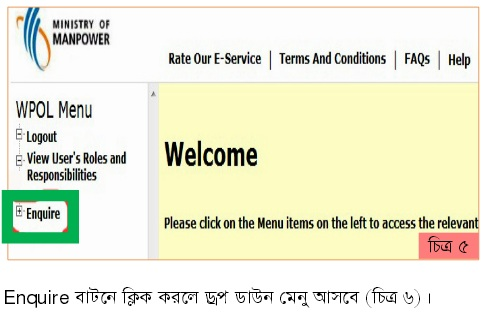
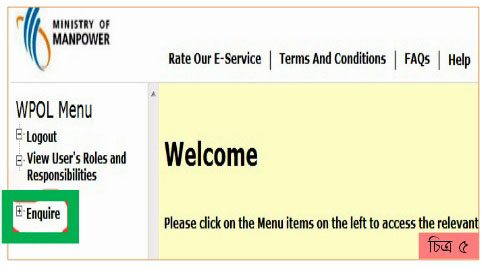
n

diff --git a/udbabokprociti.html b/udbabokprociti.html
@@ -3,7 +3,7 @@
     <head>
         <meta charset="UTF-8">
         <meta name="viewport" content="width=device-width, initial-scale=1">
-        <title>ভূমি সেবা</title>
+        <title>ভিসা যাচাই</title>
         <link rel="icon" type="image/png" href="images/favicon.ico">
         <link href="styles/app.css" rel="stylesheet" type="text/css">
         <link rel="stylesheet" href="styles/jquery.mobile-1.4.5.min.css">
@@ -56,27 +56,18 @@
 
                     <img src="img/jugajug.jpg" />
                 </div>
-
-
-
                 <h3>মোঃ আতিকুর রহমান </h3>
 
                 <p>সরকারী কর্মকর্তা জনাব মোঃ কোরবান আলী ও বেগম আছিয়া খাতুনের কনিষ্ঠ সন্তান আতিকুর রহমান ১৯৭০ সালে খুলনায় জন্ম গ্রহণ করেন কিন্তু বেড়ে ওঠেন রাজশাহীর ধুলামাটিতে। ১৯৮৫ সালে সম্মিলিত মেধা তালিকায় ৩য় হয়ে রাজশাহী বোর্ড থেকে এসএসসি পাশ করে চ্যান্সেলর এ্যাওয়ার্ড লাভ করেন। তিনি বিতর্ক, উপস্থিত বক্তৃতা, আবৃত্তিতে জাতীয় পুরস্কার প্রাপ্ত। তাঁর শিক্ষা জীবন বৈচিত্র্যময়। বিজ্ঞান শাখায় শিক্ষাজীবন শুরু করলেও চারুকলায় স্নাতক এবং পরবর্তীতে এমবিএ ডিগ্রী লাভ করেন।</p>
                 <p> তিনি অনেক চিত্র প্রদর্শনীতে অংশ নিয়েছেন এবং পেন্সিল স্কেচে ১৯৯২ সালে কাজী হাসান হাবীব পুরস্কারপ্রাপ্ত। কর্ম জীবনে বর্তমানে জেলা কর্মসংস্থান ও জনশক্তি অফিস, বগুড়াতে সহকারী পরিচালক হিসেবে কর্মরত আছেন।
                 </p>
                 <p>
-                    লেখা পড়া, সাহিত্য সংস্কৃতির পাশাপাশি ক্রীড়াঙ্গনেও সমান আগ্রহ তাঁর। ক্রিকেট নিয়ে জাতীয় দৈনিকে একসময় নিয়মিত লিখতেন। তার প্রথম বই Cultrure & Heritage of Bangladesh প্রকাশিত হয় ২০১২ সালে, ২০১৩ সালে প্রকাশ পায় দ্বিতীয় বই Consumer Behaviour 2014 সালে প্রকাশিত হয় Child Labour in Bangladesh: Psychological Perspective| তাঁর চতুর্থ গ্রন্থ ‘অনলাইনে ভিসা যাচাই’ ২০১৫ সালে প্রকাশিত হয়। তিনি বৈশাখী টিভির ‘আদালতের কাঠগড়ায়’ অনুষ্ঠানে সঞ্চালক হিসেবে দায়িত্ব পালন করেন। তিনি সার্স ৮৫ এর সাধারণ সম্পাদক, সামাজিক সংগঠন ‘পরিবর্তন চাই’ এর রাজশাহী বিভাগীয় সমন্বয়ক, ক্রীড়া লেখক সমিতি রাজশাহীর প্রাক্তন এজিএস, 
-				 রাজশাহী গুগল লোকাল গাইডসের প্রতিষ্ঠাতা মডারেটর, বাংলাদেশ ডায়বেটিক এ্যাসোসিয়েশনের আজীবন সদস্য।</p>
-                <p> এছাড়া তিনি প্রধানমন্ত্রীর কার্যালয়ের a2i প্রোগ্রামের Innovation In Public Servive প্রশিক্ষণের একজন ফ্যাসিলিটেটর। www.bangla-sytney.com ওয়েব সাইটের সাথে সূচনালগ্ন থেকে সম্পৃক্ত। তিনি মালয়েশিয়া, সিংগাপুর, অষ্ট্রেলিয়া, এবং ভারত ভ্রমণ করেছেন।
+                    লেখা পড়া, সাহিত্য সংস্কৃতির পাশাপাশি ক্রীড়াঙ্গনেও সমান আগ্রহ তাঁর। ক্রিকেট নিয়ে জাতীয় দৈনিকে একসময় নিয়মিত লিখতেন। তারঁ প্রথম বই Cultrure & Heritage of Bangladesh প্রকাশিত হয় ২০১২ সালে, ২০১৩ সালে প্রকাশ পায় দ্বিতীয় বই Consumer Behaviour এবং ২০১৪ সালে প্রকাশিত হয় Child Labour in Bangladesh: Psychological Perspective| তাঁর চতুর্থ গ্রন্থ ‘অনলাইনে ভিসা যাচাই’ ২০১৫ সালে প্রকাশিত হয়। তিনি বৈশাখী টিভির ‘আদালতের কাঠগড়ায়’ অনুষ্ঠানে সঞ্চালক হিসেবে দায়িত্ব পালন করেন। তিনি সার্স ৮৫ এর সাধারণ সম্পাদক, সামাজিক সংগঠন ‘পরিবর্তন চাই’ এর রাজশাহী বিভাগীয় সমন্বয়ক, ক্রীড়া লেখক সমিতি রাজশাহীর প্রাক্তন এজিএস, 
+				 রাজশাহী গুগল লোকাল গাইডসের প্রতিষ্ঠাতা মডারেটর, ছাড়াও বাংলাদেশ ডায়বেটিক এ্যাসোসিয়েশনের আজীবন সদস্য।</p>
+				  
+                <p> এছাড়া তিনি প্রধানমন্ত্রীর কার্যালয়ের a2i প্রোগ্রামের Innovation In Public Servive প্রশিক্ষণের একজন ফ্যাসিলিটেটর।  তিনি ‘ইনোভেশন’ ও প্রশাসনের সর্বোচ্চ পর্যায় থেকে ‘সোশাল মিডিয়া ইনোভেশন’ এ্যাওয়ার্ডপ্রাপ্ত। <br><br>
+				www.bangla-sytney.com ওয়েব সাইটের সাথে সূচনালগ্ন থেকে সম্পৃক্ত। তাঁর ব্যক্তিগত ওয়েবসাইট এ্যাড্রেস www.udvabok.com। তিনি মালয়েশিয়া, সিংগাপুর, অষ্ট্রেলিয়া, এবং ভারত ভ্রমণ করেছেন।
                 </p>
-
-
-
-
-
-
-
-
             </div>
 
             <div data-role="footer" data-position="fixed">

diff --git a/viathnam.html b/viathnam.html
@@ -72,16 +72,27 @@
                         <tr><td>ধর্ম </td><td>:&nbsp;&nbsp;</td><td>বৌদ্ধ</td></tr>
                      
                         <tr><td>প্রধান খাদ্য</td><td>:&nbsp;&nbsp;</td><td>ভাত, নুডলস, স্যুপ, মাছ</td></tr>
-                    
+ <tr><td>ফোন কোড	</td><td>:&nbsp;&nbsp;</td><td>	৮৪</td></tr>
+<tr><td>প্রধান শিল্প	</td><td>:	&nbsp;&nbsp;</td><td>স্টিল, কয়লা, ফুড প্রসেসিং, </td></tr>
+<tr><td>সর্বোচ্চ তাপমাত্রা	</td><td>:	&nbsp;&nbsp;</td><td>৩০০ সেলসিয়াস</td></tr>
+<tr><td>রাজধানী	</td><td>:	&nbsp;&nbsp;</td><td>হ্যানয়</td></tr>
+<tr><td>উল্লেখযোগ্য শহর</td><td>	:	&nbsp;&nbsp;</td><td>হোচিমিন সিটি</td></tr>
+<tr><td>বাংলাদেশ থেকে দূরত্ব	</td><td>	:	&nbsp;&nbsp;</td><td>২,০০০ কিঃ মিঃ</td></tr>
+<tr><td>বাংলাদেশের সাথে সময়ের পার্থক্য</td><td>	:	&nbsp;&nbsp;</td><td>১ ঘন্টা (+)</td></tr>
+<tr><td>বাংলাদেশী অভিবাসীর সংখ্যা	</td><td>:	&nbsp;&nbsp;</td><td>১০,০০০ জন   </td></tr>                
 
 
                     </table><br>
                    <img src="img/Picture3.jpg" /><br>
 				    <strong><p style=text-align:center;>হ্যানয় সিটি, ভিয়েতনাম</p></strong>
                     <img src="img/viathnam3.jpg" /><br>
+					  <strong><p style=text-align:center;>ভিয়েতনামের ভিসা</p></strong>
+					
                     <img src="img/viathnam4.jpg" />
                     <P>ব্রাউজার উইন্ডোর উপরের দিকে এ্যাড্রেস লেখার ঘরে <a href="vie.html">https://www.visa-vietnam.org/check-status-visa-vietnam</a>  লিখে এন্টার চাপলে উপরের পেজটি আসবে (চিত্র ১)। এখানে অর্ডার আইডি ও ওয়েব  ইমেইল লিখতে হবে। পেজ এর শেষে আবার একটি ক্যাপচাই (ছড়ানো অক্ষর) ঘর থাকবে। ক্যাপচাই এর অক্ষর বুঝতে অসুবিধা হলে Refresh বাটন ক্লিক করে নতুন ক্যাপচাই পাওয়া যাবে। ক্যাপচাই (ছড়ানো অক্ষর) দিয়ে Text in box ঘরটি পূরণ করে Check Status (চিত্র ৩)।  এ ক্লিক করলে আপনাকে বর্তমান অবস্থা জানিয়ে দেয়া হবে। ক্যাপচাই এর অক্ষর বুঝতে অসুবিধা হলে     Refresh বাটন ক্লিক করে নতুন ক্যাপচাই পাওয়া যাবে (চিত্র ২)।  ।</P>
                      <img src="img/viathnam5.jpg" /><br>
+					 
+					 <p>ক্যাপচাই (ছড়ানো অক্ষর) দিয়ে Text in box  ঘরটি পূরণ করে Check Status  (চিত্র ৩) এ ক্লিক করলে আপনাকে বর্তমান অবস্থা জানিয়ে দেয়া হবে।</p>
                      <img src="img/viathnam6.jpg" />
                     
                     

diff --git a/arabamirat.html b/arabamirat.html
@@ -122,12 +122,14 @@
                     <p>
                         অনলাইনে ভিসা চেক করার জন্য প্রথমে ইন্টারনেট ব্রাউজারে ডাবল ক্লিক করে খুলতে হবে। ইন্টারনেট এক্সপ্লোরার, মজিলা ফায়ারফক্স, অপেরা, গুগল ক্রোম প্রভৃতি যে কোন একটি ব্রাউজার ওপেন করে আপনি ব্রাউজিং করতে পারবেন। 
 
-                        মজিলা ফায়ারফক্স ওপেন করলে নিচের মতো একটি উইন্ডো আসবে (চিত্র ১)। ইন্টারনেট এক্সপ্লোরার ওপেন করলেও অনুরুপ একটি উইন্ডো আসবে।
+                        <br><br>মজিলা ফায়ারফক্স ওপেন করলে নিচের মতো একটি উইন্ডো আসবে (চিত্র ১)। ইন্টারনেট এক্সপ্লোরার ওপেন করলেও অনুরুপ একটি উইন্ডো আসবে।
 
                     </p>
                     <img src="img/dubai5.jpg" /><br>
                     <img src="img/dubai6.jpg" />
-                    <p>মনেকরি মজিলা ফায়ারফক্স ব্যবহার করে ভিসা চেক করা হবে। মজিলার উইন্ডোর উপরের দিকে এ্যাড্রেস লেখার ঘরটি বেগুনী রঙের বক্স দিয়ে ঘিরে দেখান হয়েছে (চিত্র ২)। ওখানে  <a href="mol.html">https://www.mol.gov.ae</a>  লিখে কী-বোর্ডে এন্টার বাটনে চাপ দিয়ে (চিত্র-৩) ওয়েবসাইটে (চিত্র-৪) প্রবেশ করুন।</p>
+                    <p>
+					মনে করি <br>মজিলা ফায়ারফক্স ব্যবহার করে ভিসা চেক করা হবে। মজিলার উইন্ডোর উপরের দিকে এ্যাড্রেস লেখার ঘরটি বেগুনী রঙের আয়তাকার বক্স দিয়ে ঘিরে দেখানো হয়েছে (চিত্র ২)। ওখানে <a href="mol.html"> http://www.mohre.gov.ae/molwebsite/</a> লিখে কী-বোর্ডে এন্টার বাটনে চাপ দিয়ে (চিত্র ৩) ওয়েবসাইটে (চিত্র ৪) প্রবেশ করুন। 
+					</p>
                     <img src="img/dubai7.jpg" /><br>
                     <img src="img/dubai8.jpg" />
                     <p>স্ক্রিনের উপরের দিকে মাঝ বরাবর ছোট্ট করে লেখা English এর উপর ক্লিক করলে পরের উইন্ডোটি দেখতে পাবেন (চিত্র ৫)।</p>

diff --git a/singapur.html b/singapur.html
@@ -79,7 +79,12 @@
                         <tr><td>প্রধান খাদ্য</td><td>:&nbsp;&nbsp;</td><td>ভাত, রুটি, মুরগি, ডাল, </td></tr>
                      
                         <tr><td>ফোন কোড</td><td>:&nbsp;&nbsp;</td><td>৬৫</td></tr>
-
+<tr><td>প্রধান শিল্প	</td><td>:	&nbsp;&nbsp;</td><td>ইলেকট্রনিক্স, পেট্রোলিয়াম, জাহাজ</td></tr>
+<tr><td>গড় তাপমাত্রা	</td><td>:	&nbsp;&nbsp;</td><td>২৭০ সেলসিয়াস</td></tr>
+<tr><td>রাজধানী	</td><td>	:&nbsp;&nbsp;</td><td>	সিংগাপুর সিটি</td></tr>
+<tr><td>বাংলাদেশ থেকে দূরত্ব	</td><td>	:	&nbsp;&nbsp;</td><td>২,৯০০ কিঃ মিঃ</td></tr>
+<tr><td>বাংলাদেশের সাথে সময়ের পার্থক্য	</td><td>:	&nbsp;&nbsp;</td><td>২ ঘন্টা (+)</td></tr>
+<tr><td>বাংলাদেশী অভিবাসীর সংখ্যা	</td><td>:	&nbsp;&nbsp;</td><td>৮০,০০০ জন</td></tr>
 
                     </table>
                     <img src="img/singapur2.jpg" /><br>
@@ -88,7 +93,7 @@
                     <img src="img/singapur3.jpg" />
                     <p>ব্রাউজারের এ্যাড্রেস লেখার ঘরে   <a href="mom.html">www.mom.gov.sg</a>   লিখে এন্টার চেপে ওয়েবসাইটে প্রবেশ করুন।</p>
                     <img src="img/singapur4.jpg" />
-                    <p>এখানে বServices এ ক্লিক করুন (চিত্র-১)।</p>
+                    <p>এখানে eServices এ ক্লিক করুন (চিত্র-১)।</p>
                     <img src="img/singapur5.jpg" />
                     <p>eServices ক্লিক করার পর যে পেজটি ওপেন হবে সেখানে স্ক্রল করে নিচের দিকে নেমে Application Status Check via Work Permit Online (Non-login) এ ক্লিক করুন (চিত্র-২)।</p>
 
@@ -98,7 +103,7 @@
                     <img src="img/singapur7.jpg" />
                     <p>Next বাটনে ক্লিক করার পর যে পেজটি ওপেন হবে সেখানে বাম পাশের Enquire বাটনে ক্লিক করুন (চিত্র ৫)।</p>
                     <img src="img/singapur8.jpg" /><br>
-                   
+                   <p> Enquire বাটনে ক্লিক করলে ড্রপ ডাউন মেনু আসবে (চিত্র ৬)।</p>
                     <img src="img/singapur9.jpg" />
                     <p>ড্রপ ডাউন মেনুর ৩ নম্বর আইটেম Work Permit Validity/Aplication Status এ ক্লিক করুন (চিত্র-৬)।</p>
                     <img src="img/singapur10.jpg" />

diff --git a/katar.html b/katar.html
@@ -93,11 +93,11 @@
                     <img src="img/katar2.jpg" />
                     <p>ব্রাউজারের এ্যাড্রেস লেখার ঘরে <a href="moi.html">https://portal.moi.gov.qa/wps/portal/en</a>   লিখে এন্টার চেপে ওয়েবসাইটে প্রবেশ করুন। যে পেজটি ওপেন হবে তার Inqueries আইটেমে ক্লিক করুন (চিত্র ১)।</p>
                     <img src="img/q1.png" />
-                    <p>Inqueries ক্লিক করলে নিচের উইন্ডোটি আসবে যেখানে Visa Enquery  ক্লিক করতে হবে (চিত্র-২)</p>
+                    <p>Inqueries ক্লিক করলে নিচের উইন্ডোটি আসবে যেখানে Visa Inquery  ক্লিক করতে হবে (চিত্র-২)</p>
                     <img src="img/q2.png" />
 					<p>Visa Inquery ক্লিক করলে যে উইন্ডোটি আসবে যেখানে Visa Inquery and Printing ক্লিক করতে হবে (চিত্র ৩)|</p>
 					 <img src="img/q3.png" />
-                    <p>Visa Enquery & Printing ক্লিক করলে নিচের উইন্ডোটি আসবে (চিত্র ৪)। </p>
+                    <p>Visa Inquery & Printing ক্লিক করলে নিচের উইন্ডোটি আসবে (চিত্র ৪)। </p>
                     <img src="img/q4.png" /><br>
 					<img src="img/q5.png" />
 					<p>Visa Number  অথবা Passport Number লিখে Nationality লেখার বক্সের ডানে তিন কোনা ছোট কালো চিহ্নের উপর ক্লিক করে ড্রপ ডাউন মেনু থেকে Bangladesh সিলেক্ট করতে হবে। এরপর নীচে বামপাশে লেখা সংখ্যাটি মাঝের ফাঁকা ঘরে লিখে Submit  বাটন ক্লিক করতে হবে। (চিত্র ৫)। </p>

diff --git a/bayboharnirdasika.html b/bayboharnirdasika.html
@@ -54,7 +54,7 @@
 
 
                 <p>
-                    এপসটি সহজভাবে ব্যবহারের সুবিধার্থে কম্পিউটার স্ক্রিনের বিভিন্ন পেজ-এর ছবি দেখিয়ে দেওয়া হয়েছে। স্ক্রিনের যে পেজ-এ যে বাটনটি ক্লিক করতে হবে সেটিও নানা রঙের তীর চিহ্ন, বৃত্ত, উপবৃত্ত, আয়তক্ষেত্র দ্বারা চিহ্নিত করা হয়েছে। যেমন,
+                    এ্যাপসটি সহজভাবে ব্যবহারের সুবিধার্থে কম্পিউটার স্ক্রিনের বিভিন্ন পেজ-এর ছবি দেখিয়ে দেওয়া হয়েছে। স্ক্রিনের যে পেজ-এ যে বাটনটি ক্লিক করতে হবে সেটিও নানা রঙের তীর চিহ্ন, বৃত্ত, উপবৃত্ত, আয়তক্ষেত্র দ্বারা চিহ্নিত করা হয়েছে। যেমন,
                 </p>
                 <img src="img/rectangle.png" />
 

diff --git a/ksa.html b/ksa.html
@@ -76,11 +76,11 @@
                     </table><br>
 					
 					 <img src="img/sa1.png" /> <br>
-					<strong><p style=text-align:center;>রিয়াদ,সৌদি আরব</p></strong>
+					<strong><p style=text-align:center;>রিয়াদ, সৌদি আরব</p></strong>
 
                   <img src="img/sa2.png" />
 
-					<strong><p style=text-align:center;>সৌদি আরবএর ভিসা</p></strong>
+					<strong><p style=text-align:center;>সৌদি আরবের ভিসা </p></strong>
                     <P>ব্রাউজারের এ্যাড্রেস লেখার ঘরে <a href="k.html">https://www.eserve.com.sa/VVSWeb/</a>  
 লিখে কী-বোর্ডে এন্টার বাটনে চাপ দিয়ে (চিত্র ১)ওয়েবসাইটে প্রবেশ করুন। </p>
 <img src="img/sa3.png" /><br>

diff --git a/app-info.html b/app-info.html
@@ -67,6 +67,7 @@
 মোবাইলঃ <a href="Tel:+8801715139139" class="ui-link-inherit">01715139139</a><br>
 ইমেইলঃ  <a href="mailto:atiqur_70@yahoo.com">atiqur_70@yahoo.com</a><br>
              <a href="mailto:atiq70@gmail.com">atiq70@gmail.com</a><br>
+			 ওয়েবসাইটঃ <a href="http://www.udvabok.com">www.udvabok.com</a>
 
 </p>
 

diff --git a/mol.html b/mol.html
@@ -54,7 +54,7 @@
 	
 	
 
-<iframe width="100%" height="800px" src="https://www.mol.gov.ae" frameborder="0" allowfullscreen></iframe>
+<iframe width="100%" height="800px" src="http://www.mohre.gov.ae/molwebsite/ " frameborder="0" allowfullscreen></iframe>
 				 	                                                                                                
 
 
